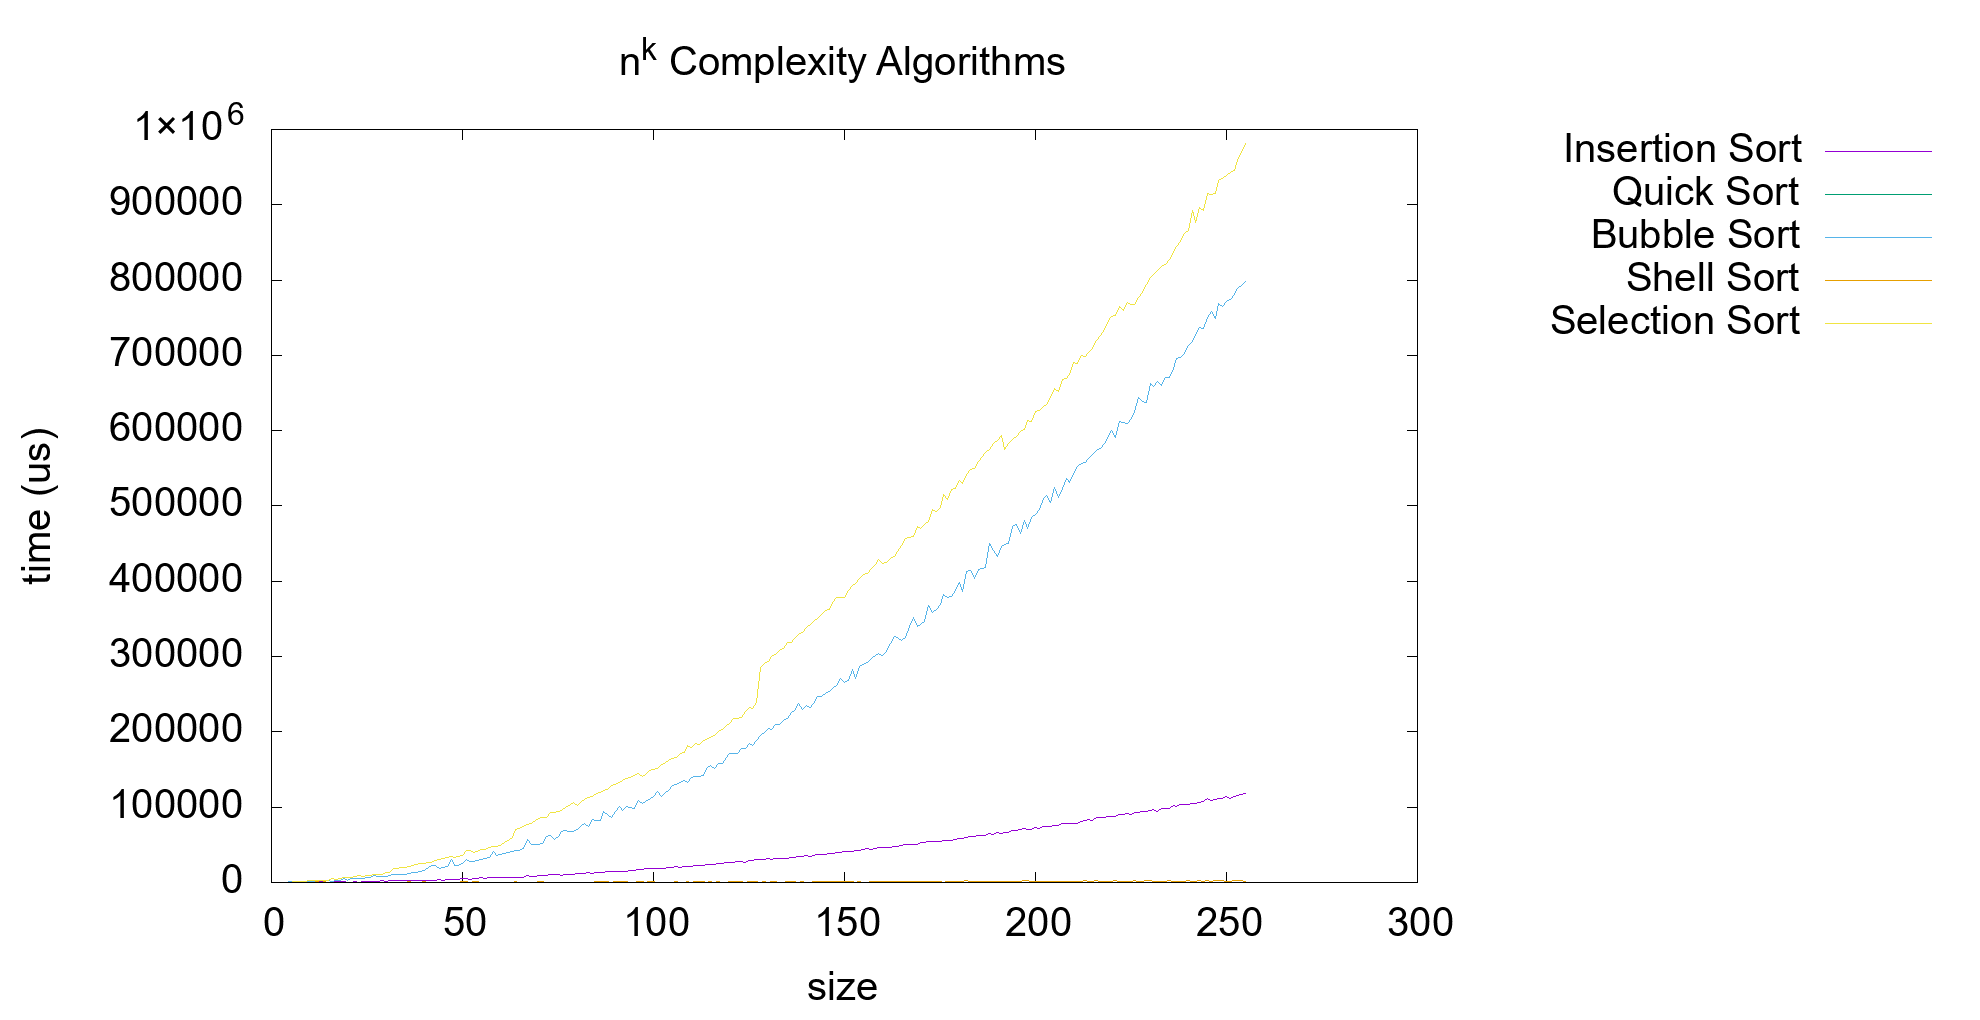
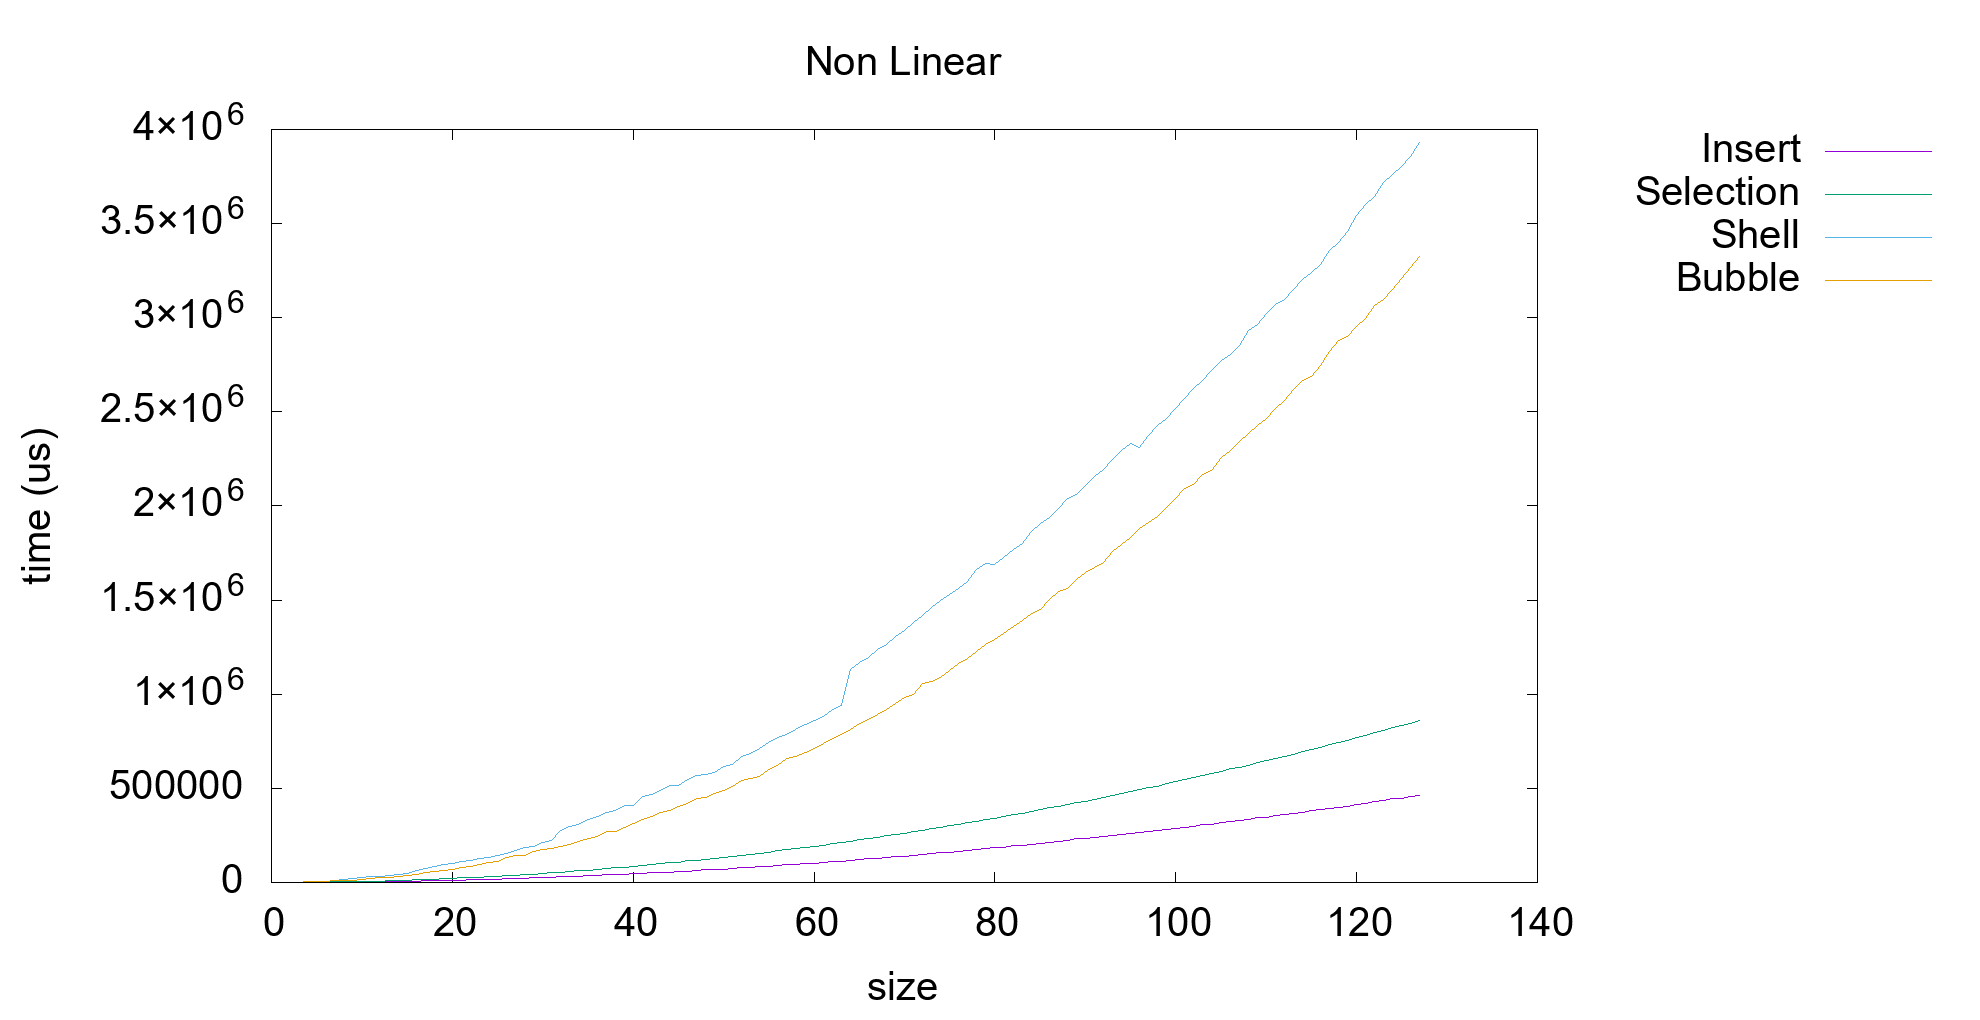
refactored benchmark utility functions into util.c and changed graph headers to be read from top of column

diff --git a/benchmark.c b/benchmark.c
@@ -3,16 +3,19 @@
 #include "sorting.h"
 #include <pthread.h>
 
-#define MAX_VALUE 16
-#define MAX_THREADS 8
 #define DATA_FILE "data.dat"
 #define GRAPH_FILE "graph.txt"
-#define MAX_DATA_POINTS (1 << 8)
-#define ITERATION_MULTIPLIER (1 << 6)
+#define DATA_HEADERS "Size Merge Radix Insert Selection Bubble Quick Shell"
+
+#define MAX_VALUE 16
+#define MAX_DATA_POINTS (1 << 7)
+#define ITERATION_MULTIPLIER (1 << 8)
 
 void update_data_file(long **results, int iterations, int tests)
 {
 	FILE *data = fopen(DATA_FILE, "w");
+
+	fprintf(data, "%s\n", DATA_HEADERS);
 
 	for (int i = 0; i < iterations; ++i)
 	{
@@ -42,48 +45,11 @@ void init_gnuplot()
 	fclose(gnuplotPipe);
 }
 
-void print_array(int *arr, int size)
-{
-	for (int pos = 0; pos < size; ++pos)
-		printf("%i ", arr[pos]);
-
-	printf("\n");
-}
-
-void initialize_benchmark(BENCHMARK_PARAMETERS *param, sort func)
-{
-	param->func = func;
-}
-
-void update_benchmark(BENCHMARK_PARAMETERS *param, int *arr, int size)
-{
-	param->size = size;
-	param->arr = malloc(size * sizeof(*arr));
-	memcpy(param->arr, arr, size * sizeof(*arr));
-}
-
-void print_benchmark(BENCHMARK_PARAMETERS param)
-{
-	printf("size : %i\n", param.size);
-	print_array(param.arr, param.size);
-}
-
-void free_benchmark(BENCHMARK_PARAMETERS *param)
-{
-	free(param->arr);
-}
-
-void fill_random(int *arr, int size, int max)
-{
-	srand(time(0));
-
-	for (int pos = 0; pos < size; ++pos)
-		arr[pos] = rand() % (1 << max);
-}
-
 int main(int argc, char const *argv[])
 {
-	sort funcs[] = {&t_merge, &t_radix, &t_insert, &t_bubble, &t_quick, &t_shell, &t_selection};
+	sort funcs[] = {&t_merge, &t_radix, &t_insert, &t_selection, &t_bubble, &t_quick, 
+					&t_shell,};
+
 	int total_tests = sizeof(funcs) / sizeof(*funcs);
 	pthread_t threads[total_tests];
 	BENCHMARK_PARAMETERS params[total_tests];

diff --git a/util.c b/util.c
@@ -43,3 +43,43 @@ void *benchmark(void *args)
 
 	return (void *) (intptr_t) ((stop.tv_sec - start.tv_sec) * 1000000 + stop.tv_usec - start.tv_usec);
 }
+
+void initialize_benchmark(BENCHMARK_PARAMETERS *param, sort func)
+{
+	param->func = func;
+}
+
+void update_benchmark(BENCHMARK_PARAMETERS *param, int *arr, int size)
+{
+	param->size = size;
+	param->arr = malloc(size * sizeof(*arr));
+	memcpy(param->arr, arr, size * sizeof(*arr));
+}
+
+void print_benchmark(BENCHMARK_PARAMETERS param)
+{
+	printf("size : %i\n", param.size);
+	print_array(param.arr, param.size);
+}
+
+void free_benchmark(BENCHMARK_PARAMETERS *param)
+{
+	free(param->arr);
+}
+
+
+void print_array(int *arr, int size)
+{
+	for (int pos = 0; pos < size; ++pos)
+		printf("%i ", arr[pos]);
+
+	printf("\n");
+}
+
+void fill_random(int *arr, int size, int max)
+{
+	srand(time(0));
+
+	for (int pos = 0; pos < size; ++pos)
+		arr[pos] = rand() % (1 << max);
+}

diff --git a/sorting.h b/sorting.h
@@ -40,3 +40,9 @@ extern void swap(int *a, int *b);
 extern int largest(int *arr, int size);
 extern void *benchmark(void *args);
 extern int smallest(int *arr, int start, int end, int *index);
+extern void initialize_benchmark(BENCHMARK_PARAMETERS *param, sort func);
+extern void update_benchmark(BENCHMARK_PARAMETERS *param, int *arr, int size);
+extern void print_benchmark(BENCHMARK_PARAMETERS param);
+extern void free_benchmark(BENCHMARK_PARAMETERS *param);
+extern void print_array(int *arr, int size);
+extern void fill_random(int *arr, int size, int max);

diff --git a/shell.c b/shell.c
@@ -6,7 +6,7 @@ void shell_sort(int *arr, int size)
 		for (int element = 0; element < size - gap; ++element)
 			for (int sub_element = 0; sub_element < size - gap; sub_element += gap)
 				if (arr[sub_element + gap] > arr[sub_element])
-					swap(arr + sub_element + gap, arr + sub_element);
+					swap(&arr[sub_element + gap], &arr[sub_element]);
 }
 
 void t_shell(int *arr, int size)

diff --git a/selection.c b/selection.c
@@ -2,9 +2,10 @@
 
 void selection_sort(int *arr, int size)
 {
+	int index;
+	
 	for (int element = 0; element < size; ++element)
 	{
-		int index;
 		smallest(arr, element, size - 1, &index);
 		
 		// move smallest element to front of array
